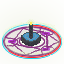
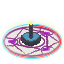
updated charging station

diff --git a/Cisc263 Game/Assets/Scripts/Items/ChargingStationScript.cs b/Cisc263 Game/Assets/Scripts/Items/ChargingStationScript.cs
@@ -11,6 +11,9 @@ public class ChargingStationScript : MonoBehaviour
     public bool chargingState;
     public bool inChargeCircle;
     private Animator chargingStationAnimator;
+    [SerializeField] GameObject chargingStationObject;
+    [SerializeField] private GameObject yellowLight;
+    [SerializeField] private GameObject orangeLight;
 
     // Start is called before the first frame update
     void Start()
@@ -21,6 +24,8 @@ public class ChargingStationScript : MonoBehaviour
         inChargeCircle = false;
         coolDown = maxCoolDown;
 
+        // yellowLight = chargingStationObject.transform.GetChild(0).gameObject;
+        // orangeLight = chargingStationObject.transform.GetChild(1).gameObject;
     }
 
     // Update is called once per frame
@@ -61,6 +66,19 @@ public class ChargingStationScript : MonoBehaviour
         {
             //resume animation
             chargingStationAnimator.speed = 1;
+        }
+
+        //Changing light colour
+        //This is not very inefficient, might fix later
+        if ((chargingStationAnimator.GetCurrentAnimatorStateInfo(0).IsName("idle")) || (chargingStationAnimator.GetCurrentAnimatorStateInfo(0).IsName("transitionToCharge")) || (chargingStationAnimator.GetCurrentAnimatorStateInfo(0).IsName("chargingPlayer")))
+        {
+            yellowLight.SetActive(true);
+            orangeLight.SetActive(false);
+        }
+        else if((chargingStationAnimator.GetCurrentAnimatorStateInfo(0).IsName("rechargingStation")))
+        {
+            yellowLight.SetActive(false);
+            orangeLight.SetActive(true);
         }
     }
 
